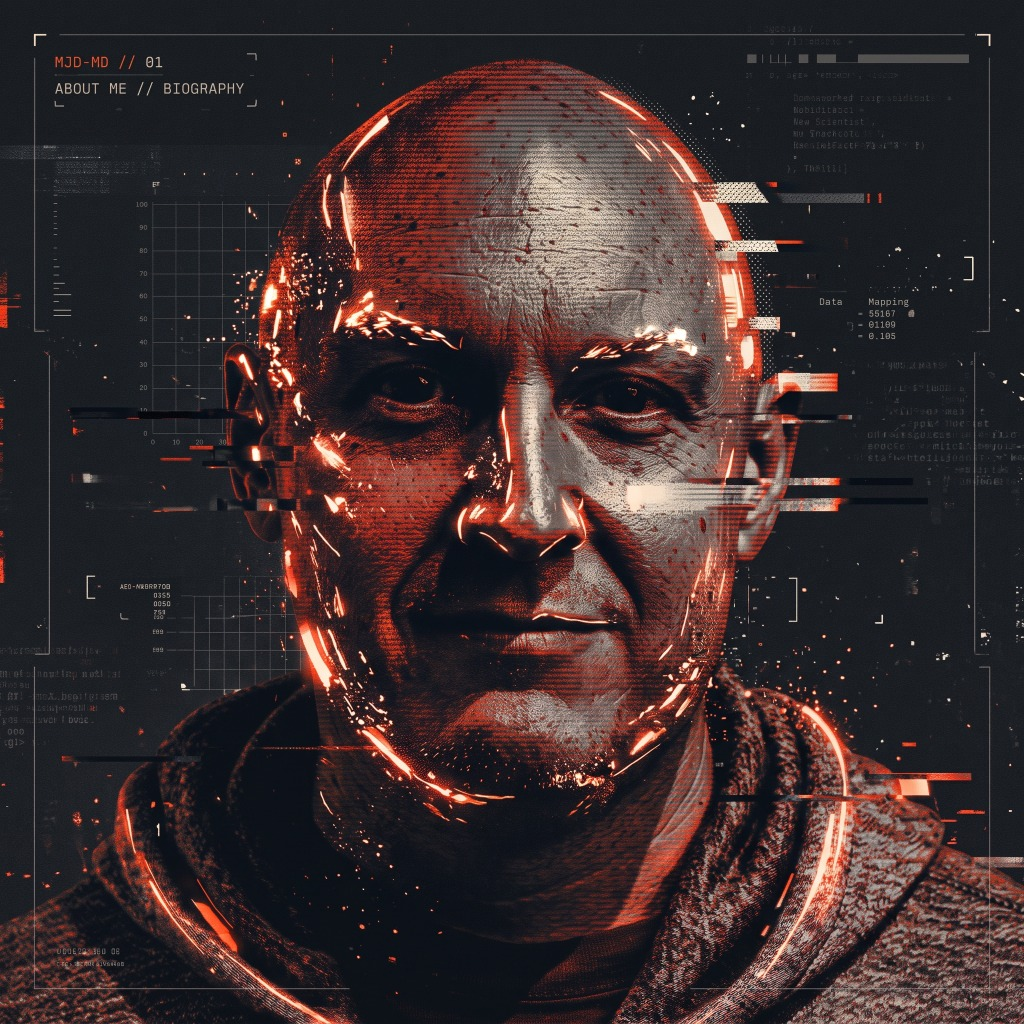
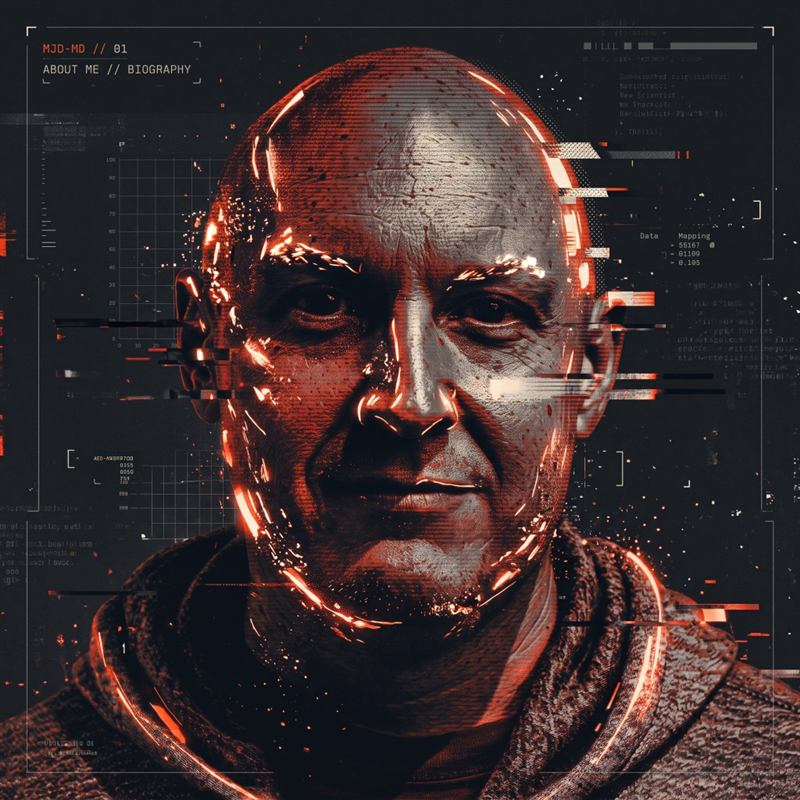
Compress About portrait to 800px

diff --git a/index.html b/index.html
@@ -68,7 +68,7 @@
 
         <aside class="about-specs">
           <figure class="about-portrait">
-            <img src="assets/martin.jpg" alt="Stylised glitch-art portrait of Martin Davies, bald with a stubbled beard, wearing a knitted hoodie" width="1024" height="1024" loading="lazy" decoding="async">
+            <img src="assets/martin.jpg" alt="Stylised glitch-art portrait of Martin Davies, bald with a stubbled beard, wearing a knitted hoodie" width="800" height="800" loading="lazy" decoding="async">
           </figure>
           <dl class="spec-list">
             <dt>CATALOGUE ID</dt>
